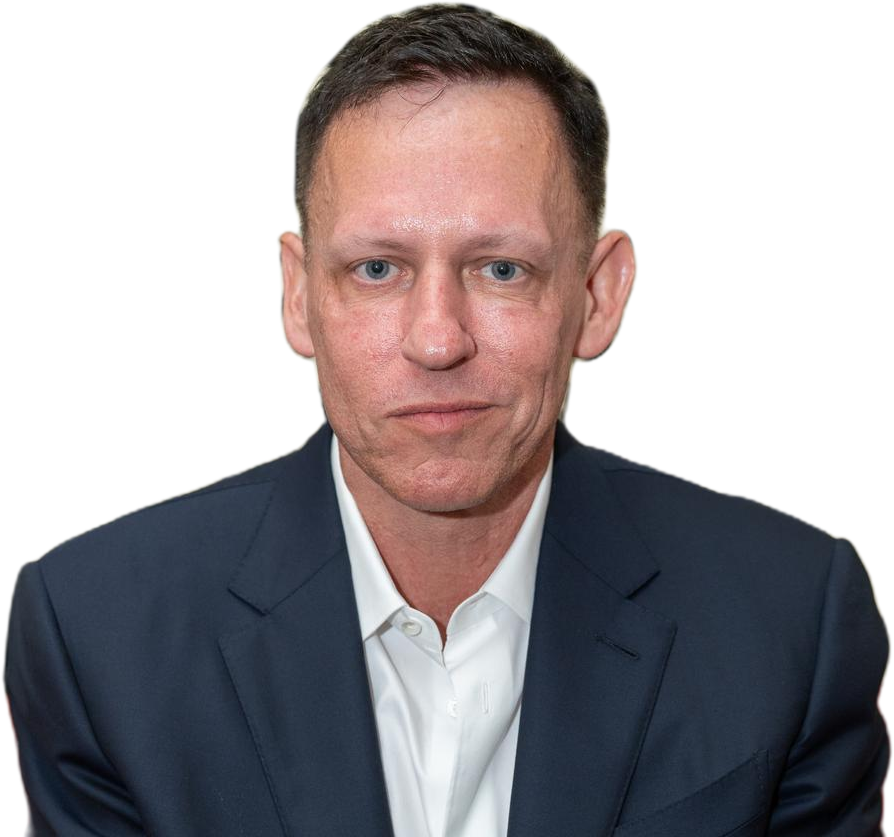
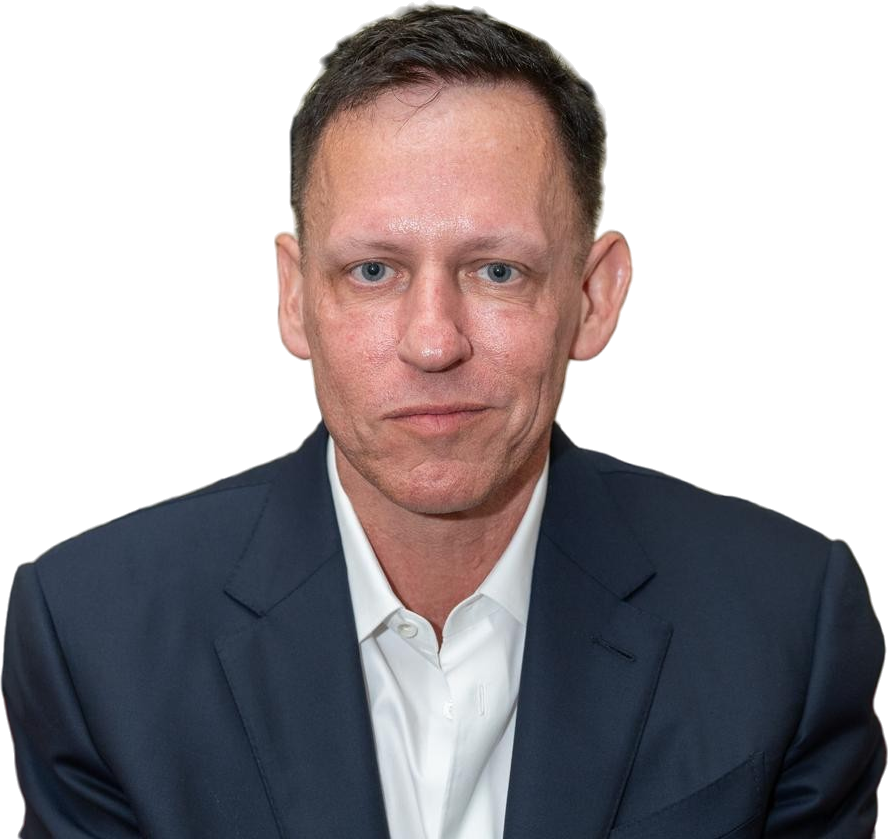
style(iran-vo): thumbnail — bigger foreground figures, Palantir operator backdrop
Figures enlarged to fill the lower ~2/3; background rebuilt as a Palantir Gotham

operator console (perspective depth grid, entity graph, geo globe, HUD panels, status

bar) for depth. Uses the supplied Photoroom cut-outs; warm-yellow rim glow kept.

diff --git a/projects/iran-vo/parts/thumbnail.html b/projects/iran-vo/parts/thumbnail.html
@@ -6,80 +6,170 @@
     <script src="../gsap.min.js"></script>
     <style>
       * { margin: 0; padding: 0; box-sizing: border-box; }
-      :root { --gold: #ffd60a; }
-      html, body { width: 1920px; height: 1080px; overflow: hidden; background: #03060d; font-family: "Inter", system-ui, sans-serif; }
+      :root { --gold: #ffd60a; --cy: #46d6e6; --bl: #5a96ff; --ink: #dce8f6; }
+      html, body { width: 1920px; height: 1080px; overflow: hidden; background: #04080f; font-family: "Inter", system-ui, sans-serif; }
       #frame { position: absolute; inset: 0; }
+      .mono { font-family: "IBM Plex Mono", monospace; text-transform: uppercase; letter-spacing: 0.18em; }
 
-      /* ---- textured navy background (same blue family as the video) ---- */
       #bgBase { position: absolute; inset: 0; z-index: 0;
-        background: radial-gradient(ellipse 95% 85% at 50% 40%, #13243f 0%, #0c1a30 34%, #081120 64%, #04080f 100%); }
-      .tex { position: absolute; inset: 0; pointer-events: none; }
-      #texFine { z-index: 1; opacity: 0.5;
-        background-image: linear-gradient(rgba(120,170,255,0.05) 1px, transparent 1px), linear-gradient(90deg, rgba(120,170,255,0.05) 1px, transparent 1px);
-        background-size: 44px 44px; }
-      #texBold { z-index: 1; opacity: 0.6;
-        background-image: linear-gradient(rgba(130,180,255,0.07) 1.5px, transparent 1.5px), linear-gradient(90deg, rgba(130,180,255,0.07) 1.5px, transparent 1.5px);
-        background-size: 224px 224px; }
-      #texHatch { z-index: 1; opacity: 0.6;
-        background-image: repeating-linear-gradient(45deg, rgba(255,255,255,0.016) 0 2px, transparent 2px 10px); }
-      #texRings { z-index: 1; opacity: 0.8;
-        background-image: repeating-radial-gradient(circle at 50% 44%, rgba(120,170,255,0.045) 0 1.5px, transparent 1.5px 64px); }
-      #glowCenter { position: absolute; inset: 0; z-index: 2; pointer-events: none;
-        background: radial-gradient(circle 460px at 50% 40%, rgba(255,214,10,0.10), transparent 70%); }
-      #vign { position: absolute; inset: 0; z-index: 6; pointer-events: none;
-        background: radial-gradient(ellipse 80% 75% at 50% 46%, transparent 40%, rgba(2,4,9,0.72) 100%); }
-      #bottomScrim { position: absolute; left: 0; right: 0; bottom: 0; height: 320px; z-index: 6; pointer-events: none;
-        background: linear-gradient(to top, rgba(2,4,9,0.85), transparent); }
-      .grain { position: absolute; inset: 0; opacity: 0.13; mix-blend-mode: overlay; pointer-events: none; z-index: 7; }
+        background: radial-gradient(ellipse 80% 70% at 50% 30%, #0f2138 0%, #0a1828 40%, #061020 70%, #03070e 100%); }
 
-      /* ---- figures with warm-yellow rim glow ---- */
+      /* ---- operator console layers (behind the people) ---- */
+      .ops { position: absolute; inset: 0; }
+      #persp { z-index: 1; opacity: 0.55; }
+      #opsFar { z-index: 2; opacity: 0.5; filter: blur(2.5px); }
+      #opsMid { z-index: 3; opacity: 0.92; filter: blur(0.4px); }
+      #focal { position: absolute; inset: 0; z-index: 4; pointer-events: none;
+        background: radial-gradient(circle 520px at 50% 52%, rgba(70,150,230,0.16), rgba(255,214,10,0.05) 30%, transparent 66%); }
+      svg { overflow: visible; }
+      .gline { stroke: var(--cy); }
+      .panel { position: absolute; border: 1px solid rgba(70,150,230,0.35); background: rgba(10,22,38,0.4); border-radius: 4px; }
+      .panel .ph { font-size: 12px; color: rgba(160,200,240,0.9); padding: 6px 10px; border-bottom: 1px solid rgba(70,150,230,0.25); }
+      .pl { position: absolute; font-size: 12px; color: rgba(150,195,235,0.85); }
+
+      /* ---- people: large, filling the lower ~2/3 ---- */
       .fig { position: absolute; bottom: -8px; }
-      #thiel { left: 338px; transform: translateX(-50%); height: 612px; z-index: 3;
-        filter: drop-shadow(0 0 3px rgba(255,214,10,0.95)) drop-shadow(0 0 11px rgba(255,214,10,0.85)) drop-shadow(0 0 26px rgba(255,210,20,0.45)) drop-shadow(0 18px 26px rgba(0,0,0,0.55)); }
-      #trump { left: 1600px; transform: translateX(-50%); height: 640px; z-index: 4;
-        filter: drop-shadow(0 0 3px rgba(255,214,10,0.95)) drop-shadow(0 0 11px rgba(255,214,10,0.85)) drop-shadow(0 0 26px rgba(255,210,20,0.45)) drop-shadow(0 18px 26px rgba(0,0,0,0.55)); }
-      #karp { left: 50%; transform: translateX(-50%); height: 768px; z-index: 5;
-        filter: drop-shadow(0 0 4px rgba(255,221,40,1)) drop-shadow(0 0 14px rgba(255,214,10,0.95)) drop-shadow(0 0 34px rgba(255,210,20,0.6)) drop-shadow(0 22px 30px rgba(0,0,0,0.6)); }
+      #thiel { left: 305px; transform: translateX(-50%); height: 760px; z-index: 5;
+        filter: drop-shadow(0 0 3px rgba(255,221,40,0.95)) drop-shadow(0 0 11px rgba(255,214,10,0.85)) drop-shadow(0 0 26px rgba(255,210,20,0.45)) drop-shadow(0 18px 28px rgba(0,0,0,0.6)); }
+      #trump { left: 1635px; transform: translateX(-50%); height: 800px; z-index: 6;
+        filter: drop-shadow(0 0 3px rgba(255,221,40,0.95)) drop-shadow(0 0 11px rgba(255,214,10,0.85)) drop-shadow(0 0 26px rgba(255,210,20,0.45)) drop-shadow(0 18px 28px rgba(0,0,0,0.6)); }
+      #karp { left: 50%; transform: translateX(-50%); height: 942px; z-index: 7;
+        filter: drop-shadow(0 0 4px rgba(255,221,40,1)) drop-shadow(0 0 14px rgba(255,214,10,0.95)) drop-shadow(0 0 34px rgba(255,210,20,0.6)) drop-shadow(0 22px 34px rgba(0,0,0,0.65)); }
 
-      /* ---- Palantir logo (white-on-black jpg → screen blend drops the black) ---- */
-      /* white-on-black jpg → screen blend drops the black; contrast crush kills the residual box */
-      #logo { position: absolute; top: 50px; left: 50%; transform: translateX(-50%); width: 470px; z-index: 8;
+      /* ---- HUD frame on top, framing the whole console ---- */
+      #topbar { position: absolute; top: 0; left: 0; right: 0; height: 46px; z-index: 9;
+        background: linear-gradient(rgba(8,18,32,0.82), rgba(8,18,32,0.3)); border-bottom: 1px solid rgba(70,200,230,0.45); }
+      #topbar .l { position: absolute; left: 26px; top: 15px; font-size: 13px; color: var(--cy); }
+      #topbar .c { position: absolute; left: 50%; top: 15px; transform: translateX(-50%); font-size: 13px; color: rgba(180,215,245,0.85); }
+      #topbar .r { position: absolute; right: 26px; top: 15px; font-size: 13px; color: rgba(180,215,245,0.85); }
+      #topbar .dot { color: #57e08a; }
+      .corner { position: absolute; width: 38px; height: 38px; border: 2px solid rgba(70,200,230,0.7); z-index: 9; }
+      #cTL { left: 18px; top: 58px; border-right: 0; border-bottom: 0; }
+      #cTR { right: 18px; top: 58px; border-left: 0; border-bottom: 0; }
+      #cBL { left: 18px; bottom: 18px; border-right: 0; border-top: 0; }
+      #cBR { right: 18px; bottom: 18px; border-left: 0; border-top: 0; }
+      #botL { position: absolute; left: 26px; bottom: 24px; z-index: 9; font-size: 12px; color: rgba(120,170,210,0.7); }
+      #botR { position: absolute; right: 26px; bottom: 24px; z-index: 9; font-size: 12px; color: rgba(120,170,210,0.7); text-align: right; }
+
+      #logo { position: absolute; top: 70px; left: 50%; transform: translateX(-50%); width: 360px; z-index: 9;
         mix-blend-mode: screen; filter: brightness(1.05) contrast(2.2) saturate(0); }
-      #logoTag { position: absolute; top: 168px; left: 50%; transform: translateX(-50%); z-index: 8;
-        font-family: "IBM Plex Mono", monospace; text-transform: uppercase; letter-spacing: 0.5em; font-size: 17px; color: rgba(190,205,225,0.8); }
+
+      #scan { position: absolute; inset: 0; z-index: 10; pointer-events: none; opacity: 0.5;
+        background: repeating-linear-gradient(0deg, rgba(255,255,255,0.025) 0 1px, transparent 1px 3px); }
+      #vign { position: absolute; inset: 0; z-index: 10; pointer-events: none;
+        background: radial-gradient(ellipse 78% 80% at 50% 52%, transparent 44%, rgba(2,4,9,0.78) 100%); }
+      .grain { position: absolute; inset: 0; opacity: 0.1; mix-blend-mode: overlay; pointer-events: none; z-index: 11; }
     </style>
   </head>
   <body>
     <div data-composition-id="main" data-width="1920" data-height="1080" data-start="0" data-duration="1.2">
       <div id="frame">
         <div id="bgBase"></div>
-        <div class="tex" id="texRings"></div>
-        <div class="tex" id="texHatch"></div>
-        <div class="tex" id="texFine"></div>
-        <div class="tex" id="texBold"></div>
-        <div id="glowCenter"></div>
+
+        <svg class="ops" id="persp" viewBox="0 0 1920 1080"></svg>
+        <div class="ops" id="opsFar">
+          <svg id="globe" viewBox="0 0 380 380" style="position:absolute; right:60px; top:120px; width:380px; height:380px;"></svg>
+        </div>
+        <div class="ops" id="opsMid"></div>
+        <div id="focal"></div>
 
         <img class="fig" id="thiel" src="../assets/thumb/thiel.png" />
         <img class="fig" id="trump" src="../assets/thumb/trump.png" />
         <img class="fig" id="karp" src="../assets/thumb/karp.png" />
 
-        <div id="vign"></div>
-        <div id="bottomScrim"></div>
-
+        <div id="topbar">
+          <div class="l mono">◧ Palantir · Gotham</div>
+          <div class="c mono">Operator Console</div>
+          <div class="r mono"><span class="dot">●</span> Live &nbsp; 47.6°N 38.2°E</div>
+        </div>
         <img id="logo" src="../assets/palantir-white.jpg" />
+        <div class="corner" id="cTL"></div><div class="corner" id="cTR"></div>
+        <div class="corner" id="cBL"></div><div class="corner" id="cBR"></div>
+        <div class="mono" id="botL">Target Package // Leadership</div>
+        <div class="mono" id="botR">OSINT · Entity Graph · v4.7</div>
 
+        <div id="scan"></div>
+        <div id="vign"></div>
         <div class="grain"><svg width="100%" height="100%"><filter id="gr"><feTurbulence type="fractalNoise" baseFrequency="0.85" numOctaves="2"/></filter><rect width="100%" height="100%" filter="url(#gr)"/></svg></div>
       </div>
 
       <script>
         window.__timelines = window.__timelines || {};
+        const CY = "#46d6e6", BL = "#5a96ff";
+        function rng(a){return function(){a|=0;a=a+0x6D2B79F5|0;let t=Math.imul(a^a>>>15,1|a);t=t+Math.imul(t^t>>>7,61|t)^t;return((t^t>>>14)>>>0)/4294967296;};}
+        const r = rng(771);
+
+        // ---- one-point perspective grid (depth) ----
+        (function () {
+          const VPX = 960, VPY = 300, S = [];
+          // fan lines to the bottom edge
+          for (let x = -400; x <= 2320; x += 150) S.push(`<line x1="${VPX}" y1="${VPY}" x2="${x}" y2="1140" stroke="${CY}" stroke-width="1" stroke-opacity="0.16"/>`);
+          // a few up to the top edge (ceiling)
+          for (let x = -200; x <= 2120; x += 260) S.push(`<line x1="${VPX}" y1="${VPY}" x2="${x}" y2="-40" stroke="${CY}" stroke-width="1" stroke-opacity="0.07"/>`);
+          // horizontal depth rows below the horizon
+          for (let k = 1; k <= 16; k++) { const y = VPY + (1140 - VPY) * Math.pow(k / 16, 2.1); const op = (0.05 + 0.18 * (k / 16)).toFixed(3); S.push(`<line x1="-200" y1="${y.toFixed(1)}" x2="2120" y2="${y.toFixed(1)}" stroke="${CY}" stroke-width="1" stroke-opacity="${op}"/>`); }
+          document.getElementById("persp").innerHTML = S.join("");
+        })();
+
+        // ---- geo globe widget (right, far depth) ----
+        (function () {
+          const cx = 190, cy = 190, R = 150, S = [`<circle cx="${cx}" cy="${cy}" r="${R}" fill="none" stroke="${BL}" stroke-width="1.4" stroke-opacity="0.6"/>`];
+          for (let i = 1; i <= 3; i++) { const ry = R * (i / 4); S.push(`<ellipse cx="${cx}" cy="${cy}" rx="${R}" ry="${ry}" fill="none" stroke="${BL}" stroke-width="1" stroke-opacity="0.3"/>`); }
+          for (let i = 1; i <= 3; i++) { const rx = R * (i / 4); S.push(`<ellipse cx="${cx}" cy="${cy}" rx="${rx}" ry="${R}" fill="none" stroke="${BL}" stroke-width="1" stroke-opacity="0.3"/>`); }
+          // connection arcs + pins
+          const pins = [[120, 110], [255, 150], [180, 250], [240, 250], [110, 210]];
+          pins.forEach((p) => S.push(`<circle cx="${p[0]}" cy="${p[1]}" r="3.4" fill="${CY}"/><circle cx="${p[0]}" cy="${p[1]}" r="8" fill="none" stroke="${CY}" stroke-width="1" stroke-opacity="0.5"/>`));
+          S.push(`<path d="M120 110 Q230 60 255 150" fill="none" stroke="${CY}" stroke-width="1.4" stroke-opacity="0.7"/>`);
+          S.push(`<path d="M255 150 Q210 230 180 250" fill="none" stroke="${CY}" stroke-width="1.4" stroke-opacity="0.6"/>`);
+          S.push(`<path d="M120 110 Q60 190 110 210" fill="none" stroke="${CY}" stroke-width="1.2" stroke-opacity="0.5"/>`);
+          document.getElementById("globe").innerHTML = S.join("");
+        })();
+
+        // ---- entity node-link graph + panels + reticle (mid layer) ----
+        (function () {
+          const mid = document.getElementById("opsMid");
+          // node graph upper-left
+          const NS = 11, nodes = [];
+          for (let i = 0; i < NS; i++) nodes.push([70 + r() * 470, 90 + r() * 360]);
+          let g = `<svg viewBox="0 0 1920 1080" style="position:absolute;inset:0;width:1920px;height:1080px;">`;
+          for (let i = 0; i < NS; i++) for (let j = i + 1; j < NS; j++) if (r() < 0.28) {
+            g += `<line x1="${nodes[i][0].toFixed(0)}" y1="${nodes[i][1].toFixed(0)}" x2="${nodes[j][0].toFixed(0)}" y2="${nodes[j][1].toFixed(0)}" stroke="${CY}" stroke-width="1" stroke-opacity="0.32"/>`;
+          }
+          nodes.forEach((n, i) => { const rad = i % 4 === 0 ? 9 : 5; g += `<circle cx="${n[0].toFixed(0)}" cy="${n[1].toFixed(0)}" r="${rad}" fill="#0b1b2e" stroke="${CY}" stroke-width="1.6" stroke-opacity="0.85"/><circle cx="${n[0].toFixed(0)}" cy="${n[1].toFixed(0)}" r="${rad - 2.5}" fill="${CY}" fill-opacity="0.6"/>`; });
+          // a target reticle upper-right area
+          const rx = 1360, ry = 360;
+          g += `<circle cx="${rx}" cy="${ry}" r="74" fill="none" stroke="${CY}" stroke-width="1.4" stroke-opacity="0.55"/><circle cx="${rx}" cy="${ry}" r="44" fill="none" stroke="${CY}" stroke-width="1" stroke-opacity="0.4"/>`;
+          g += `<line x1="${rx - 96}" y1="${ry}" x2="${rx + 96}" y2="${ry}" stroke="${CY}" stroke-width="1" stroke-opacity="0.5"/><line x1="${rx}" y1="${ry - 96}" x2="${rx}" y2="${ry + 96}" stroke="${CY}" stroke-width="1" stroke-opacity="0.5"/>`;
+          g += `</svg>`;
+          mid.innerHTML = g;
+
+          // labels for the graph
+          const mk = (cls, x, y, t) => { const d = document.createElement("div"); d.className = cls; d.style.left = x + "px"; d.style.top = y + "px"; d.innerHTML = t; mid.appendChild(d); };
+          mk("pl mono", 70, 64, "Entity Network");
+          mk("pl mono", 1300, 452, "TRK-09 · LOCKED");
+
+          // HUD data panels with bar charts / sparklines
+          function panel(x, y, w, h, title, bars) {
+            const p = document.createElement("div"); p.className = "panel"; p.style.cssText += `left:${x}px;top:${y}px;width:${w}px;height:${h}px;`;
+            let inner = `<div class="ph mono">${title}</div><div style="position:absolute;left:0;right:0;bottom:8px;height:${h - 42}px;display:flex;align-items:flex-end;gap:6px;padding:0 12px;">`;
+            for (let i = 0; i < bars; i++) { const bh = 16 + Math.round(r() * (h - 60)); inner += `<div style="flex:1;height:${bh}px;background:linear-gradient(${CY},rgba(70,150,230,0.2));opacity:0.8;border-radius:1px;"></div>`; }
+            inner += `</div>`; p.innerHTML = inner; mid.appendChild(p);
+          }
+          panel(636, 96, 250, 132, "Signal Intake", 11);
+          panel(1480, 660, 300, 120, "Throughput · 24h", 16);
+          // sparkline panel
+          const sp = document.createElement("div"); sp.className = "panel"; sp.style.cssText += "left:60px;top:520px;width:300px;height:120px;";
+          let pts = ""; for (let i = 0; i <= 30; i++) pts += `${(i / 30 * 276 + 12).toFixed(0)},${(96 - r() * 70).toFixed(0)} `;
+          sp.innerHTML = `<div class="ph mono">Anomaly Score</div><svg viewBox="0 0 300 120" style="position:absolute;inset:0;width:300px;height:120px;"><polyline points="${pts}" fill="none" stroke="${CY}" stroke-width="2" stroke-opacity="0.85"/></svg>`;
+          mid.appendChild(sp);
+        })();
+
+        // ---- subtle reveal, spanning the full duration ----
         const tl = gsap.timeline({ paused: true });
-        // span the full composition duration so late frames stay resolved
         tl.to({ p: 0 }, { p: 1, duration: 1.2, ease: "none" }, 0);
         tl.fromTo("#frame", { opacity: 0 }, { opacity: 1, duration: 0.3 }, 0);
-        tl.fromTo(["#thiel", "#trump"], { y: 24, opacity: 0 }, { y: 0, opacity: 1, duration: 0.5, ease: "power3.out", stagger: 0.05 }, 0.1);
-        tl.fromTo("#karp", { y: 28, opacity: 0 }, { y: 0, opacity: 1, duration: 0.55, ease: "power3.out" }, 0.15);
-        tl.fromTo("#logo", { opacity: 0, y: -10 }, { opacity: 1, y: 0, duration: 0.5, ease: "power2.out" }, 0.3);
+        tl.fromTo(["#thiel", "#trump"], { y: 26, opacity: 0 }, { y: 0, opacity: 1, duration: 0.5, ease: "power3.out", stagger: 0.05 }, 0.1);
+        tl.fromTo("#karp", { y: 30, opacity: 0 }, { y: 0, opacity: 1, duration: 0.55, ease: "power3.out" }, 0.15);
         window.__timelines["main"] = tl;
       </script>
     </div>
